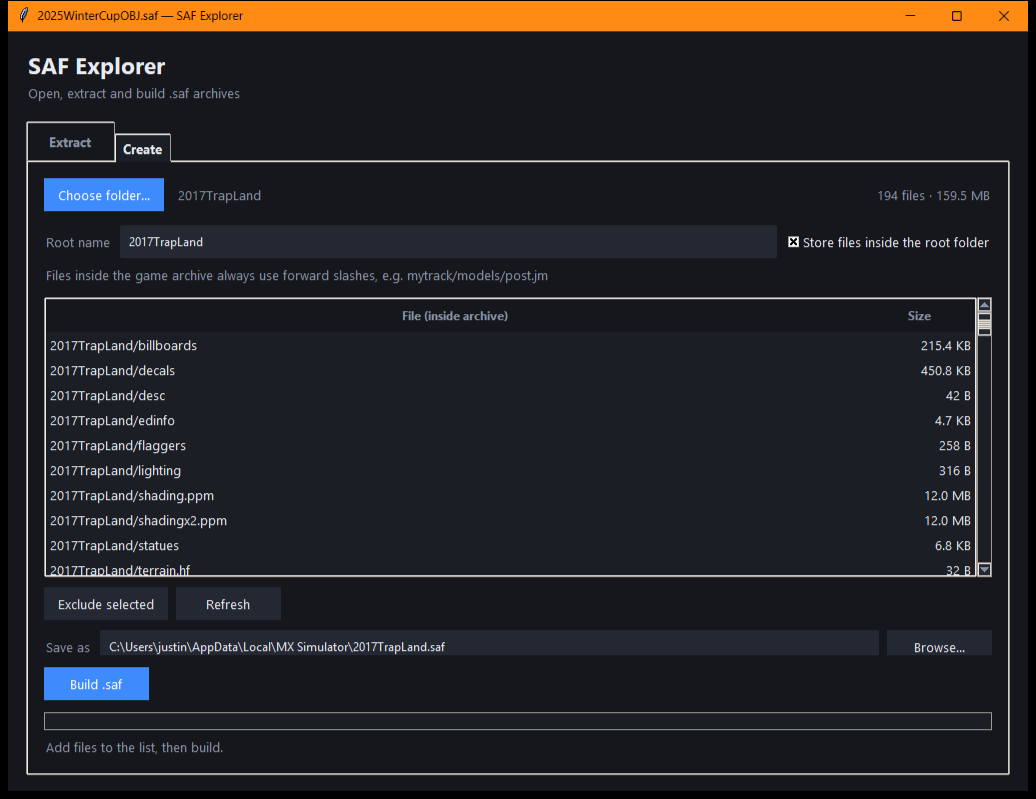
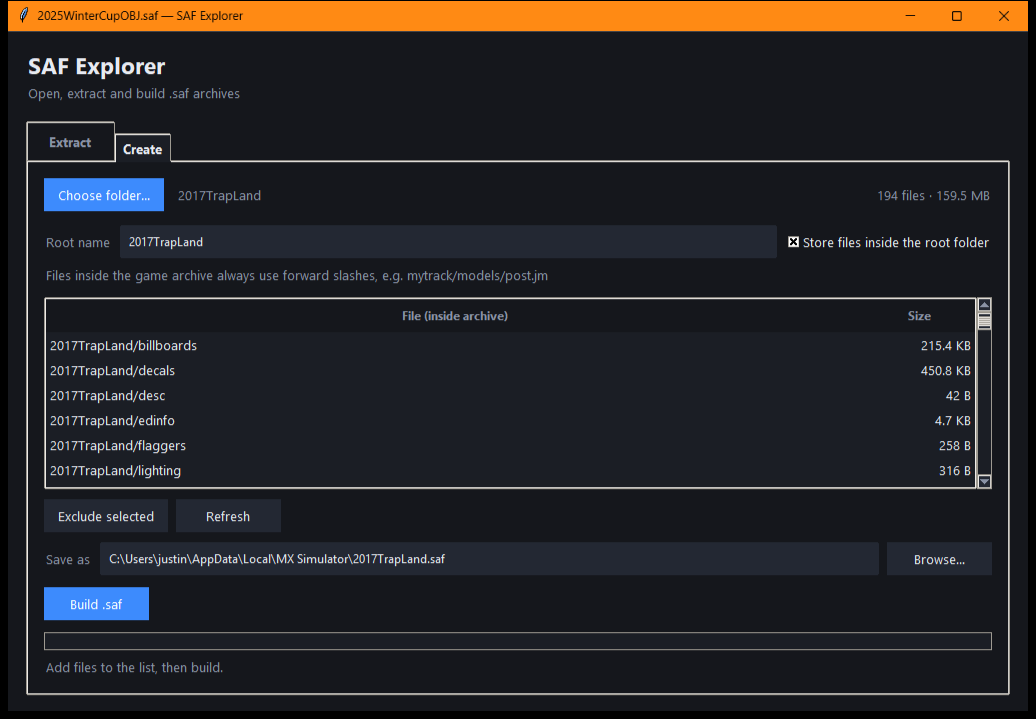
Fix the clipped Save as row at the default window size
Both tabs gave a fixed control row the same grid weight as the file
list, so when the window was short on height that row collapsed -- at
the default 1020x680 the Create tab's Save as field was invisible.
Leave only the list weighted so controls keep their natural height and
the list shrinks instead. Rebuild the shipped exe and refresh the site
screenshots at the default size.

🤖 Generated with Codebuff

Changed region(s): [[0.0, 0.0, 0.9884, 0.9791], [0.8649, 0.765, 0.9266, 0.8261]]

diff --git a/docs/index.html b/docs/index.html
@@ -50,7 +50,7 @@
     </div>
 
     <figure class="wrap hero-figure">
-      <img src="screenshots/extract.png" alt="SAF Explorer's Extract tab with 2025WinterCupOBJ.saf open: 87 files listed with sizes and types, and Extract all, Extract selected and Select all buttons." width="1036" height="799">
+      <img src="screenshots/extract.png" alt="SAF Explorer's Extract tab with 2025WinterCupOBJ.saf open: 87 files listed with sizes and types, and Extract all, Extract selected and Select all buttons." width="1036" height="719">
       <figcaption>An 89 MB retail archive in the Extract tab — 87 files, read from the header alone.</figcaption>
     </figure>
   </section>
@@ -65,11 +65,11 @@
 
       <div class="shots">
         <figure class="shot">
-          <img src="screenshots/filter.png" alt="The Extract tab filtered to models/bales in 2025WinterCupOBJ.saf, with a narrowed file list and the archive summary showing how many files are shown." width="1036" height="799" loading="lazy"
+          <img src="screenshots/filter.png" alt="The Extract tab filtered to models/bales in 2025WinterCupOBJ.saf, with a narrowed file list and the archive summary showing how many files are shown." width="1036" height="719" loading="lazy"
           <figcaption><strong>Filter as you type.</strong> Narrow a long file list down to the handful you need. <kbd>Ctrl</kbd> + <kbd>A</kbd> selects every visible row.</figcaption>
         </figure>
         <figure class="shot">
-          <img src="screenshots/create.png" alt="The Create tab with a track folder scanned: root name, the list of files that will go into the archive, and the Save as path." width="1036" height="799" loading="lazy"
+          <img src="screenshots/create.png" alt="The Create tab with a track folder scanned: root name, the list of files that will go into the archive, and the Save as path." width="1036" height="719" loading="lazy"
           <figcaption><strong>Packing a folder.</strong> Scan a directory, choose the root name, exclude rows, then build. The archive is written to a temporary file first.</figcaption>
         </figure>
       </div>

diff --git a/safgui.py b/safgui.py
@@ -211,7 +211,6 @@ class App(tk.Tk):
     def _build_extract_tab(self) -> None:
         tab = self.extract_tab
         tab.columnconfigure(0, weight=1)
-        tab.rowconfigure(3, weight=1)
 
         top = ttk.Frame(tab)
         top.grid(row=0, column=0, sticky="ew")
@@ -306,7 +305,6 @@ class App(tk.Tk):
     def _build_create_tab(self) -> None:
         tab = self.create_tab
         tab.columnconfigure(0, weight=1)
-        tab.rowconfigure(4, weight=1)
 
         top = ttk.Frame(tab)
         top.grid(row=0, column=0, sticky="ew")
